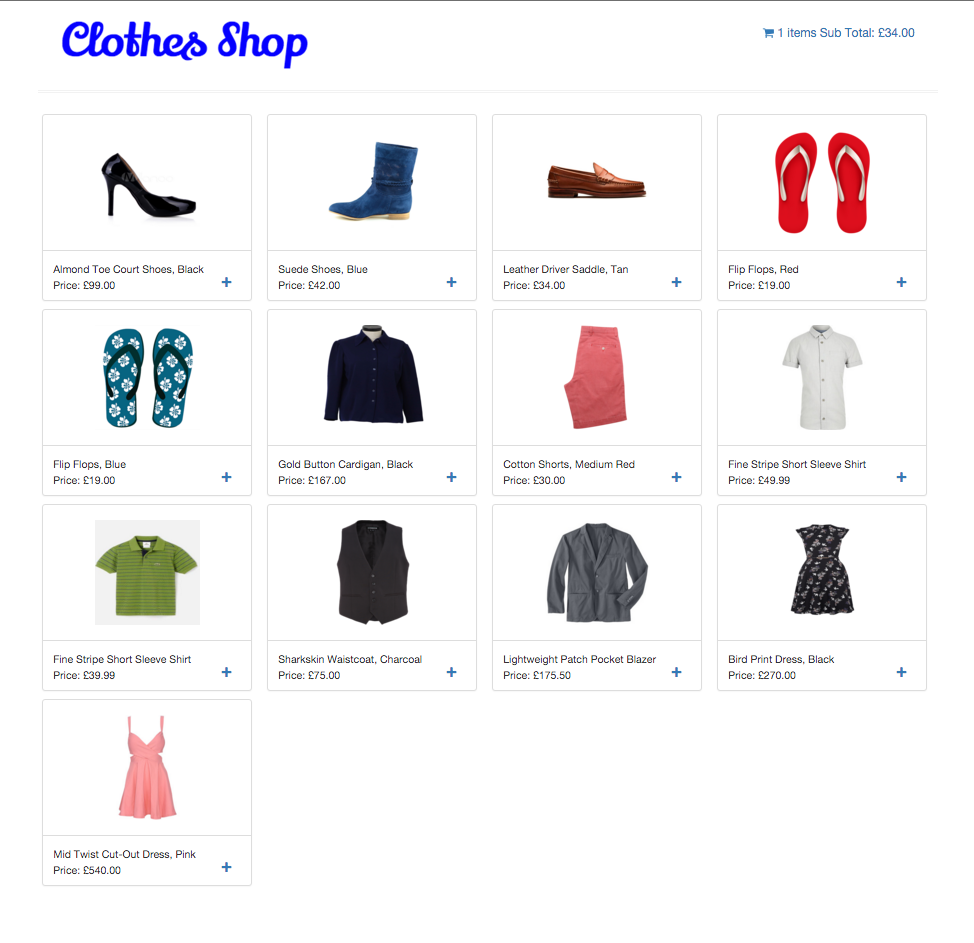
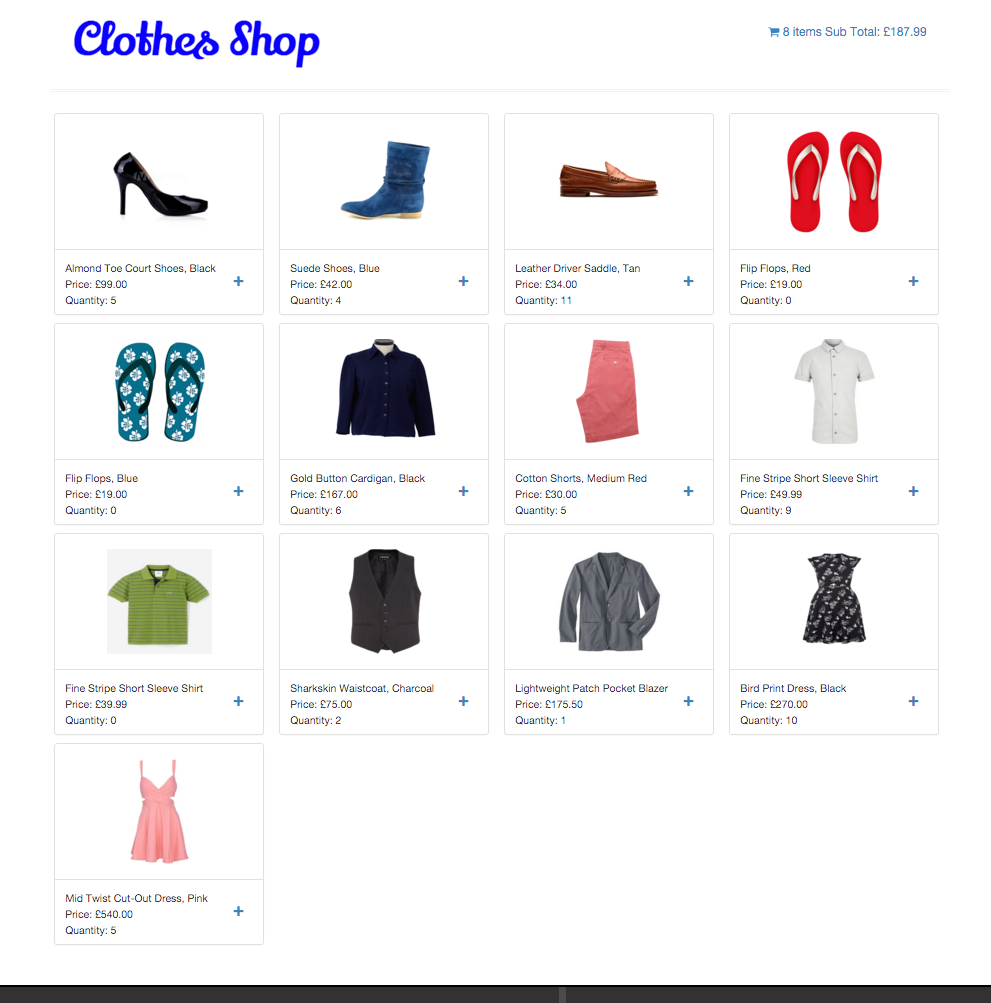
updated the homepage

diff --git a/test/mainControllerSpec.js b/test/mainControllerSpec.js
@@ -1,154 +1,181 @@
 describe('clothesShopController', function(){
 
-  var ctrl;
-  var cart = [];
-  var $httpBackend;
-  var scope;
+    var ctrl;
+    var cart = [];
+    var $httpBackend;
+    var scope;
 
-  item = {
-    "category": "Women's Footwear",
-    "name": "Almond Toe Court Shoes, Black",
-    "price": 99.00,
-    "quantity": 9,
-    "image": "img/almondToeCourtShoes.jpg"
-  };
-
-  item2 = {
-    "category": "Women's Casualwear",
-    "name": "Gold Button Cardigan, Black",
-    "price": 167.00,
-    "quantity": 6,
-    "image": "img/goldButtonCardiganBlue.jpg"
-  };
-
-  item3 = {
-    "category": "Women's Casualwear",
-    "name": "Cotton Shorts, Medium Red",
-    "price": 30.00,
-    "quantity": 0,
-    "image": "img/cottonShortsRed.png"
-  };
-
-  beforeEach(function(){
-    jasmine.addMatchers({
-      toEqualData: function(util, customEqualityTesters) {
-        return {
-          compare: function(actual, expected) {
-          return { pass: angular.equals(actual, expected)  };
-        }
-      };
-    }
-  });
-});
-
-beforeEach(module('clothesShop'));
-
-beforeEach(inject(function($rootScope, $controller, _$httpBackend_) {
-  $httpBackend = _$httpBackend_;
-  $httpBackend.expectGET('test/mock/clothes.json').respond([item]);
-  scope = $rootScope.$new();
-  ctrl = $controller('mainController', {
-    $scope: scope
-  });
-}));
-
-it('should show a list of item', function(){
-  expect(ctrl.list).toBe(true);
-
-});
-
-it('should add an item in the cart', function(){
-  ctrl.addItem(item);
-  expect(ctrl.cart[0].name).toBe('Almond Toe Court Shoes, Black');
-  expect(ctrl.cart[0].price).toBe(99.00);
-});
-
-it('should update the quantity selected for the same item', function(){
-  ctrl.addItem(item);
-  ctrl.addItem(item);
-  expect(ctrl.cart[0].quantity).toBe(2);
-});
-
-it('should reduce the quantity in stock when the user select an item', function(){
-  ctrl.addItem(item2);
-  expect(item2.quantity).toBe(5);
-});
-
-it('return false if the item is already in the cart', function() {
-  ctrl.addItem(item);
-  expect(ctrl.isNotInCart(item)).toEqual(false);
-});
-
-it('should not add an item out of order', function(){
-  ctrl.addItem(item3);
-  expect(ctrl.cart).not.toContain(item3);
-});
-
-it('should see how many items has added', function(){
-  ctrl.addItem(item);
-  ctrl.addItem(item2);
-  expect(ctrl.countQuantity()).toBe(2);
-});
-
-describe('#discounts', function(){
-  beforeEach(function(){
-
-    item4 = {
-      "category": "Men's Footwear",
-      "name": "Flip Flops, Blue",
-      "price": 19.00,
-      "quantity": 3,
-      "image": "img/flipFlopsBlue.png"
+    item = {
+      "category": "Women's Footwear",
+      "name": "Almond Toe Court Shoes, Black",
+      "price": 99.00,
+      "quantity": 9,
+      "image": "img/almondToeCourtShoes.jpg"
     };
 
-    item5 = {
+    item2 = {
       "category": "Women's Casualwear",
       "name": "Gold Button Cardigan, Black",
-      "price": 39.00,
+      "price": 167.00,
       "quantity": 6,
       "image": "img/goldButtonCardiganBlue.jpg"
     };
 
-    ctrl.addItem(item5);
+    item3 = {
+      "category": "Women's Casualwear",
+      "name": "Cotton Shorts, Medium Red",
+      "price": 30.00,
+      "quantity": 0,
+      "image": "img/cottonShortsRed.png"
+    };
+
+    beforeEach(function(){
+      jasmine.addMatchers({
+        toEqualData: function(util, customEqualityTesters) {
+          return {
+            compare: function(actual, expected) {
+            return { pass: angular.equals(actual, expected)  };
+          }
+        };
+      }
+    });
   });
 
-  it('should get the total amount before apply the discount', function(){
-    expect(ctrl.sum()).toBe(39.00);
+  beforeEach(module('clothesShop'));
+
+  beforeEach(inject(function($rootScope, $controller, _$httpBackend_) {
+    $httpBackend = _$httpBackend_;
+    $httpBackend.expectGET('test/mock/clothes.json').respond([item]);
+    scope = $rootScope.$new();
+    ctrl = $controller('mainController', {
+      $scope: scope
+    });
+  }));
+
+  it('should show a list of item', function(){
+    expect(ctrl.list).toBe(true);
+
   });
 
-  it('should receive 5£ discount if has a correct voucher', function(){
-    spyOn(ctrl, 'isFootwear').and.returnValue(true);
-    ctrl.checkDiscount();
-    expect(ctrl.sum()).toBe(39);
-    expect(ctrl.discount).toBe(5.00);
-    expect(ctrl.afterDisc()).toBe(34.00);
-  });
-
-  it('should receive 10£ discount for order over 50£ and correct voucher', function(){
-    spyOn(ctrl, 'isFootwear').and.returnValue(true);
-    ctrl.addItem(item4);
-    ctrl.checkDiscount();
-    expect(ctrl.sum()).toBe(58.00);
-    expect(ctrl.discount).toBe(10.00);
-    expect(ctrl.afterDisc()).toBe(48.00);
-  });
-
-  it("should apply 15£ discount to the total for order over 75£ and at least one footwear item", function(){
-    spyOn(ctrl, 'isFootwear').and.returnValue(true);
+  it('should add an item in the cart', function(){
     ctrl.addItem(item);
-    ctrl.checkDiscount();
-    expect(ctrl.sum()).toBe(138.00);
-    expect(ctrl.afterDisc()).toBe(123.00);
+    expect(ctrl.cart[0].name).toBe('Almond Toe Court Shoes, Black');
+    expect(ctrl.cart[0].price).toBe(99.00);
   });
 
-  it('should not get 15£ discount if at least one item is footwear', function(){
-    spyOn(ctrl, 'isFootwear').and.returnValue(false);
-    ctrl.addItem(item5);
-    ctrl.addItem(item5);
-    ctrl.checkDiscount();
-    expect(ctrl.sum()).toBe(117.00);
-    expect(ctrl.afterDisc()).toBe(107.00);
+  it('should update the quantity selected for the same item', function(){
+    ctrl.addItem(item);
+    ctrl.addItem(item);
+    expect(ctrl.cart[0].quantity).toBe(2);
   });
-});
+
+  it('should reduce the quantity in stock when the user select an item', function(){
+    expect(item2.quantity).toBe(6);
+    ctrl.addItem(item2);
+    expect(item2.quantity).toBe(5);
+  });
+
+  it('return false if the item is already in the cart', function() {
+    ctrl.addItem(item);
+    expect(ctrl.isNotInCart(item)).toEqual(false);
+  });
+
+  it('should not add an item out of order', function(){
+    ctrl.addItem(item3);
+    expect(ctrl.cart).not.toContain(item3);
+  });
+
+  it('should see how many items has added', function(){
+    ctrl.addItem(item);
+    ctrl.addItem(item2);
+    expect(ctrl.countQuantity()).toBe(2);
+  });
+
+
+  describe('#discounts with a wrong voucher', function(){
+    beforeEach(function(){
+      spyOn(ctrl, 'isVoucherCorrect').and.returnValue(false);
+      ctrl.addItem(item);
+    });
+
+    it('should not give the discount', function(){
+      expect(ctrl.checkDiscount()).toBe(0);
+    });
+  });
+
+  describe('#discounts with correct voucher and no Footwear items', function(){
+    beforeEach(function(){
+
+      item4 = {
+        "category": "Men's Footwear",
+        "name": "Flip Flops, Blue",
+        "price": 19.00,
+        "quantity": 3,
+        "image": "img/flipFlopsBlue.png"
+      };
+
+      item5 = {
+        "category": "Women's Casualwear",
+        "name": "Gold Button Cardigan, Black",
+        "price": 39.00,
+        "quantity": 6,
+        "image": "img/goldButtonCardiganBlue.jpg"
+      };
+
+      spyOn(ctrl, 'isFootwear').and.returnValue(false);
+      spyOn(ctrl, 'isVoucherCorrect').and.returnValue(true);
+      ctrl.addItem(item5);
+    });
+
+    it('should get the total amount before apply the discount', function(){
+      expect(ctrl.sum()).toBe(39.00);
+    });
+
+    it('should receive 5£ discount if has a correct voucher', function(){
+      ctrl.checkDiscount();
+      expect(ctrl.sum()).toBe(39);
+      expect(ctrl.discount).toBe(5.00);
+      expect(ctrl.afterDisc()).toBe(34.00);
+    });
+
+    it('should receive 10£ discount for order over 50£ and correct voucher', function(){
+      ctrl.addItem(item4);
+      ctrl.checkDiscount();
+      expect(ctrl.sum()).toBe(58.00);
+      expect(ctrl.discount).toBe(10.00);
+      expect(ctrl.afterDisc()).toBe(48.00);
+    });
+
+
+    it('should not get 15£ discount if at least one item is footwear', function(){
+      ctrl.addItem(item5);
+      ctrl.checkDiscount();
+      expect(ctrl.sum()).toBe(78.00);
+      expect(ctrl.afterDisc()).toBe(68.00);
+    });
+  });
+
+  describe('#discounts, correct voucher and Footwear items', function(){
+    beforeEach(function(){
+
+      item6 = {
+        "category": "Men's Footwear",
+        "name": "Flip Flops, green",
+        "price": 79.00,
+        "quantity": 3,
+        "image": "img/flipFlopsBlue.png"
+      };
+      spyOn(ctrl, 'isFootwear').and.returnValue(true);
+      spyOn(ctrl, 'isVoucherCorrect').and.returnValue(true);
+    });
+
+    it('should receive 15£ discount for order over 75£', function(){
+      ctrl.addItem(item6);
+      ctrl.checkDiscount();
+      expect(ctrl.discount).toBe(15.00);
+      expect(ctrl.afterDisc()).toBe(64.00);
+    });
+
+  });
 });
 

diff --git a/README.md b/README.md
@@ -7,7 +7,7 @@ The task is to build a *responsive website* for a clothing retailer that display
 ```
 As a User
 So that I can see all products
-I want to view all products, with price, name and picture
+I want to view all products, with price, name, picture and quantity available
 
 As a User
 So that I want to purchase a product
@@ -20,6 +20,7 @@ I want to see a preview of my cart, with subTotal and number of items added
 As a User
 So that I know if a product is out of stock
 I want to see a message If I try to add an out-out-stock product
+
 As a User
 So that I don't want purchase a product anymore that I added
 I want to remove a product from my shopping cart
@@ -32,7 +33,7 @@ As a User
 So that I can receive a discount
 I want to apply a voucher to my shopping cart
 
-As a User 
+As a User
 So that i can see how much of a discount I've received
 I want to see the discount applied and a confirmation
 ```
@@ -47,11 +48,19 @@ I want to see the discount applied and a confirmation
 
 ### My approach
 
-I have decided to use [AngularJS](https://angularjs.org/) as a front end framework in order to create a Single Page App.
+I've decided to use [AngularJS](https://angularjs.org/) as a front end framework in order to create a Single Page App.
 In particular the app shows two pages (home page and cart) through the built in angular function ng-show.
-The app should let the User add an item that will be automatically added to the cart with the default quantity of 1.
-I decided to not display the quantity available in order to show a message 'out of order' if the user would try to purchase an item not available.
-Once the User is happy with the shopping can go to the cart, through the cart button up to the right corner and modify the  quantity, remove the item and see automatically change the total.
+I've dedice to approach the two pages differently. 
+
+In the 'home page' I've used the JS code to manipulate the objects, i.e. when a user add an item to my cart,
+the same item would be removed form the stock as well as the sum function etc.
+once the user is happy with the shopping, through the cart link can hide the
+shopping list and display the cart in order to modify the shopping cart.
+
+In the 'cart page' I've decided to use Angular in order to modify the
+quantity, remove items and automatically update the total amount without perform
+any function.
+
 In the end the user can apply a voucher in order to receive three different discount.
  - 5£
  - 10£ if purchase over 50£
@@ -60,14 +69,12 @@ In the end the user can apply a voucher in order to receive three different disc
 ### Notable issues
 
 * Although all the tests still pass, there are also not as many protractor tests as I would like to have because I have to fix the asynchronous call that don't let me to completely load the page in order to run protractor and select items.
-* I realised when was too late that I am not subtracting items quantity from the main object when added to the cart. This happen because when I was designing the app I wanted Angular in charge to modify the item quantity, so I forgot to evaluate the deduction.
-* Last but not least I have to mock the factory and spy on isVaucherCorrect().
 
 Although I really enjoyed making this app, I really learned a lot from it. I only wish to had more time.
 
 ### Next steps
 * I was planning to make a mobile friendly setup.
-* Fix the issues above
+* Deploy the app to Heroku 
 
 ### File layout
 ```
@@ -118,6 +125,8 @@ As a first step I've initialised the package managers, bower for the client side
 
 As second step I've set up Karma (Karma init) requiring PhantomJS as a browser
 Launcher and Protractor with Selenium for the end to end test framework.
+
+I've also mocked the http request and spy on private functions.
 
 I've started my project by testing the title in the homepage:
 ```
